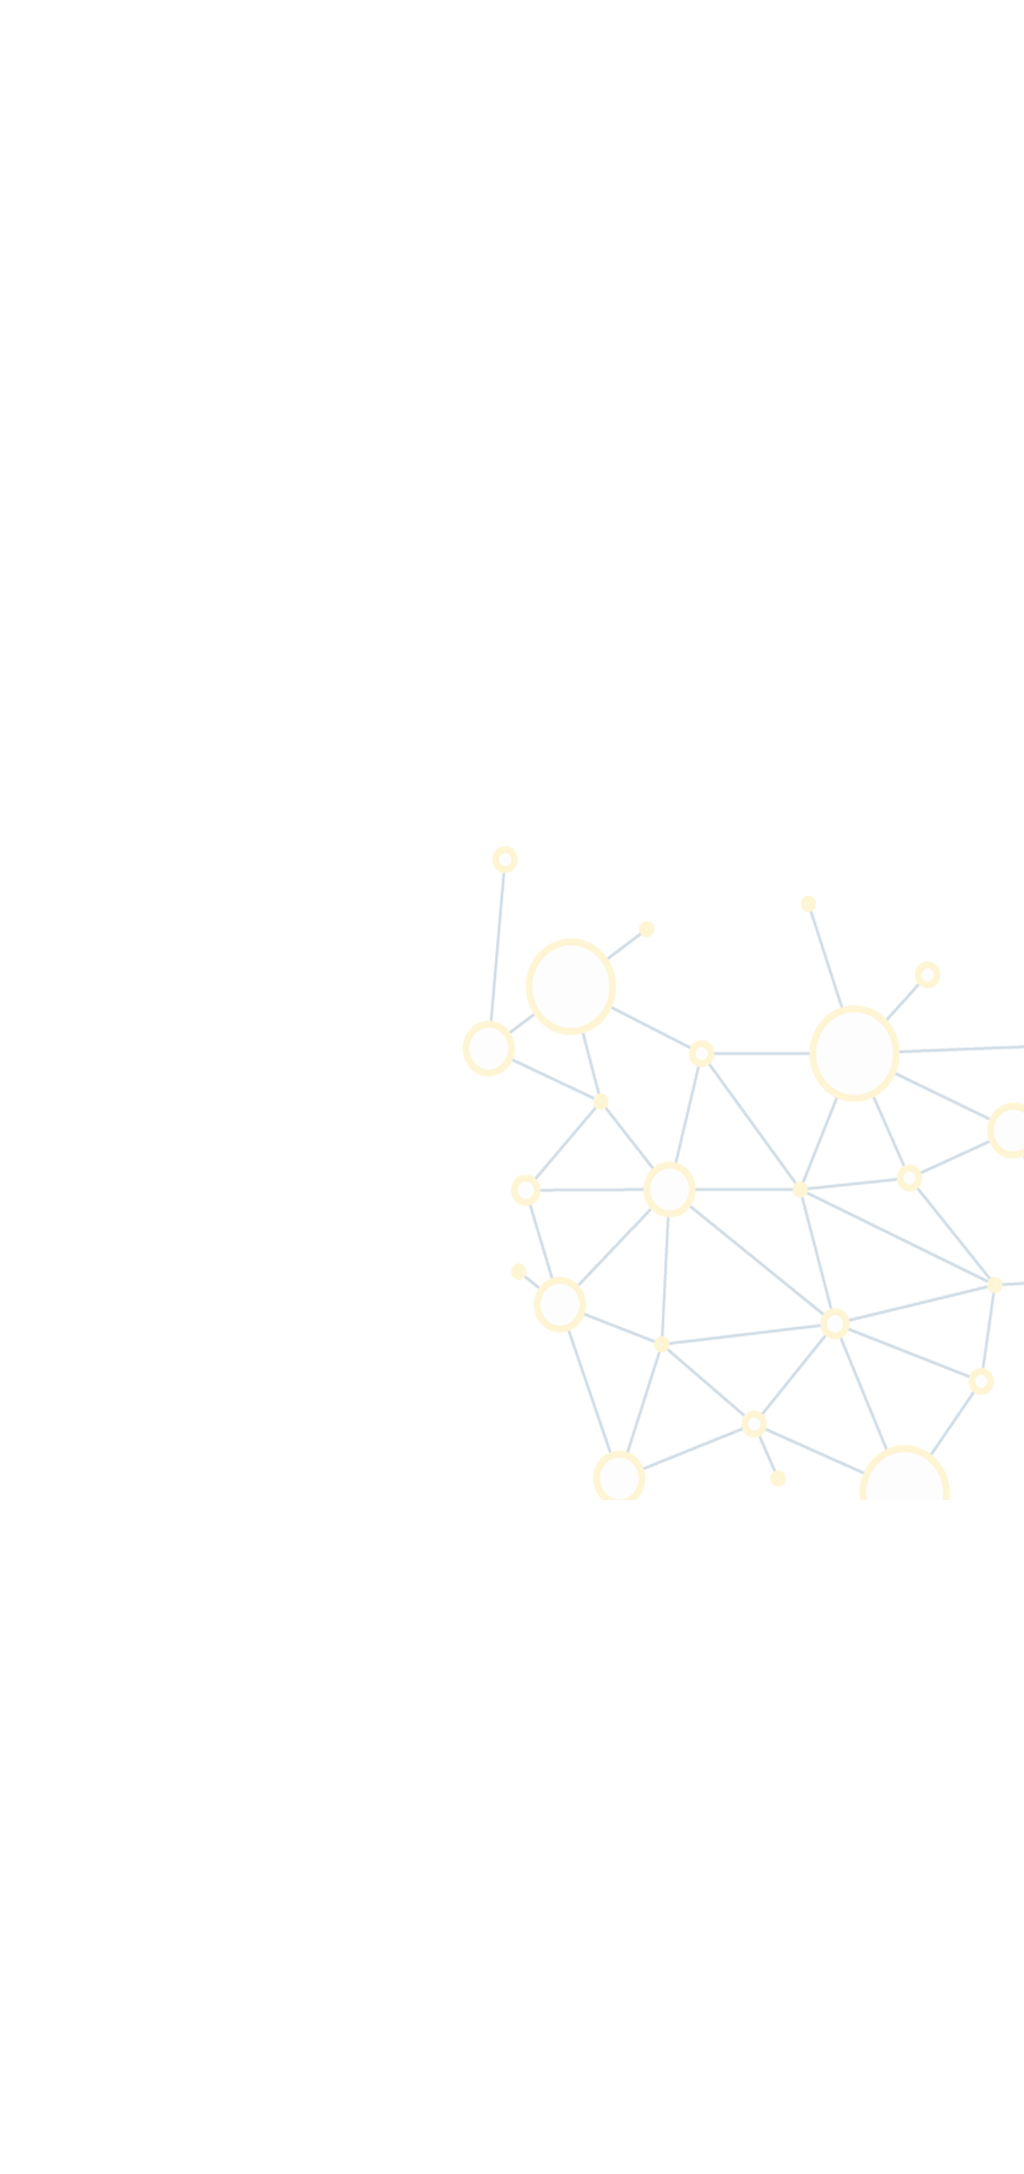
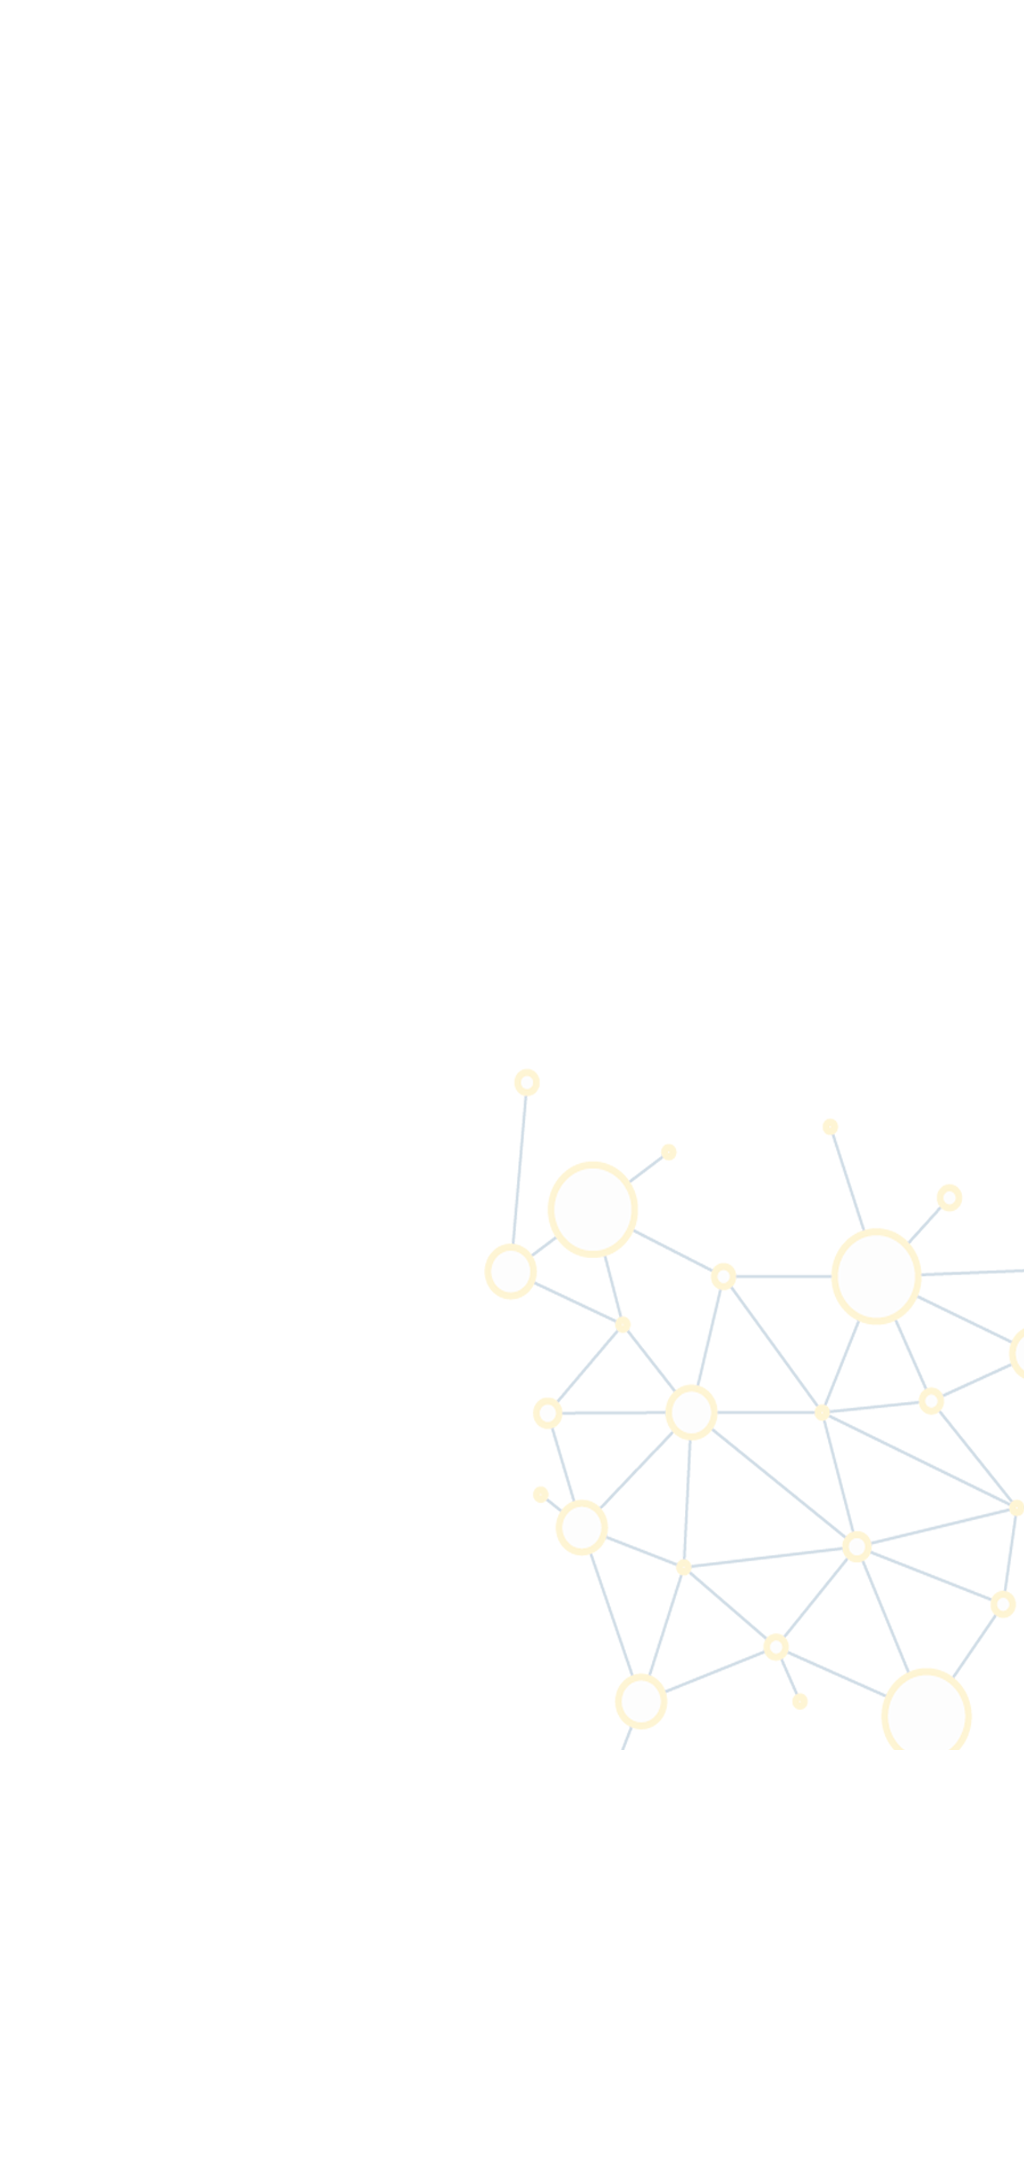
ipad pro fikset lidt

diff --git a/css/hvem_er_jci.css b/css/hvem_er_jci.css
@@ -318,7 +318,7 @@ footer {
     margin-left: 70px; } }
 @media screen and (min-width: 1024px) {
   body {
-    background-image: url("../images/network1024.png");
+    background-image: url("../images/network1024v2.png");
     background-repeat: no-repeat; }
 
   #mobilAlt {
@@ -327,11 +327,11 @@ footer {
     width: 100vw;
     display: grid;
     grid-template-columns: repeat(6, 1fr);
-    grid-template-rows: repeat(20, 50px); }
+    grid-template-rows: repeat(23, 50px); }
     #mobilAlt #circle1 {
       border-radius: 50%;
-      width: 200px;
-      height: 200px;
+      width: 300px;
+      height: 300px;
       border: 3px solid #f37121;
       grid-column: 1/span 2;
       grid-row-start: 6;
@@ -339,12 +339,12 @@ footer {
       background-color: #f9f7f4; }
     #mobilAlt .dk {
       display: block;
-      width: 35%;
+      width: 45%;
       height: auto;
       grid-column: 1/span 2;
       grid-row-start: 5;
-      margin-top: 18%;
-      margin-left: 30%; }
+      margin-top: 24%;
+      margin-left: 40%; }
     #mobilAlt .slagelse {
       grid-column: 1/span 2;
       grid-row-start: 4;
@@ -353,7 +353,7 @@ footer {
     #mobilAlt .slagelsetekst {
       color: black;
       grid-column: 1/span 4;
-      grid-row-start: 6;
+      grid-row-start: 7;
       margin-top: 15px;
       margin-left: 100px;
       display: none; }
@@ -362,27 +362,28 @@ footer {
       width: 110px;
       height: 30px;
       grid-column: 1/span 2;
-      grid-row-start: 9;
+      grid-row-start: 10;
       margin-left: 100px;
       margin-top: 20px;
       display: none; }
     #mobilAlt .world {
       display: block;
-      width: 50%;
+      width: 70%;
       height: auto;
       grid-column: 5/span 2;
       grid-row-start: 14;
-      margin-top: 18%;
+      margin-top: 45%;
+      margin-left: -2%;
       z-index: 1; }
     #mobilAlt .globalt {
       grid-column: 4/span 3;
-      grid-row-start: 12;
+      grid-row-start: 13;
       margin-top: 50px;
       margin-left: 20px; }
     #mobilAlt .globaltekst {
       color: black;
       grid-column: 4/span 2;
-      grid-row-start: 15;
+      grid-row-start: 17;
       margin-top: -30px;
       margin-left: 100px;
       display: none; }
@@ -391,17 +392,17 @@ footer {
       width: 110px;
       height: 30px;
       grid-column: 4/span 2;
-      grid-row-start: 17;
+      grid-row-start: 19;
       margin-left: 100px;
       display: none; }
-    #mobilAlt #circle1 {
+    #mobilAlt #circle2 {
       border-radius: 50%;
-      width: 200px;
-      height: 200px;
+      width: 300px;
+      height: 300px;
       border: 3px solid #f37121;
-      grid-column: 1/span 2;
-      grid-row-start: 6;
-      margin-left: 60px;
+      grid-column: 5/span 2;
+      grid-row-start: 15;
+      margin-left: -10%;
       background-color: #f9f7f4; } }
 @media screen and (min-width: 1200px) {
   body {

diff --git a/css/hvem_er_jci.scss b/css/hvem_er_jci.scss
@@ -404,7 +404,7 @@ footer{
 
 @media screen and (min-width: 1024px){
   body{
-    background-image: url("../images/network1024.png");
+    background-image: url("../images/network1024v2.png");
     background-repeat: no-repeat;
   }
   #mobilAlt{
@@ -413,11 +413,11 @@ footer{
     width: 100vw;
     display: grid;
     grid-template-columns: repeat(6, 1fr);
-    grid-template-rows: repeat(20, 50px);
+    grid-template-rows: repeat(23, 50px);
     #circle1{
       border-radius: 50%;
-      width: 200px;
-      height: 200px;
+      width: 300px;
+      height: 300px;
       border: 3px solid $orangePrimary;
       grid-column: 1/span 2;
       grid-row-start: 6;
@@ -426,12 +426,12 @@ footer{
     }
     .dk {
       display: block; // Billeder er et element (laver linjeskift)
-      width: 35%;
+      width: 45%;
       height: auto;
       grid-column: 1/span 2;
       grid-row-start: 5;
-      margin-top: 18%;
-      margin-left: 30%;
+      margin-top: 24%;
+      margin-left: 40%;
     }
     .slagelse {
       grid-column: 1/span 2;
@@ -442,7 +442,7 @@ footer{
     .slagelsetekst{
       color: black;
       grid-column: 1/span 4;
-      grid-row-start: 6;
+      grid-row-start: 7;
       margin-top: 15px;
       margin-left: 100px;
       display: none;
@@ -452,30 +452,31 @@ footer{
       width: 110px;
       height: 30px;
       grid-column: 1/span 2;
-      grid-row-start: 9;
+      grid-row-start: 10;
       margin-left: 100px;
       margin-top: 20px;
       display: none;
     }
     .world{
       display: block;
-      width: 50%;
+      width: 70%;
       height: auto;
       grid-column: 5/span 2;
       grid-row-start: 14;
-      margin-top: 18%;
+      margin-top: 45%;
+      margin-left: -2%;
       z-index: 1;
     }
     .globalt {
       grid-column: 4/span 3;
-      grid-row-start: 12;
+      grid-row-start: 13;
       margin-top: 50px;
       margin-left: 20px;
     }
     .globaltekst{
       color: black;
       grid-column: 4/span 2;
-      grid-row-start: 15;
+      grid-row-start: 17;
       margin-top: -30px;
       margin-left: 100px;
       display: none;
@@ -485,19 +486,20 @@ footer{
       width: 110px;
       height: 30px;
       grid-column: 4/span 2;
-      grid-row-start: 17;
+      grid-row-start: 19;
       margin-left: 100px;
       display: none;
     }
-    #circle1{
+    #circle2{
       border-radius: 50%;
-      width: 200px;
-      height: 200px;
+      width: 300px;
+      height: 300px;
       border: 3px solid $orangePrimary;
-      grid-column: 1/span 2;
-      grid-row-start: 6;
-      margin-left: 60px;
+      grid-column: 5/span 2;
+      grid-row-start: 15;
+      margin-left: -10%;
       background-color: $white;
+
     }
   }
 }
